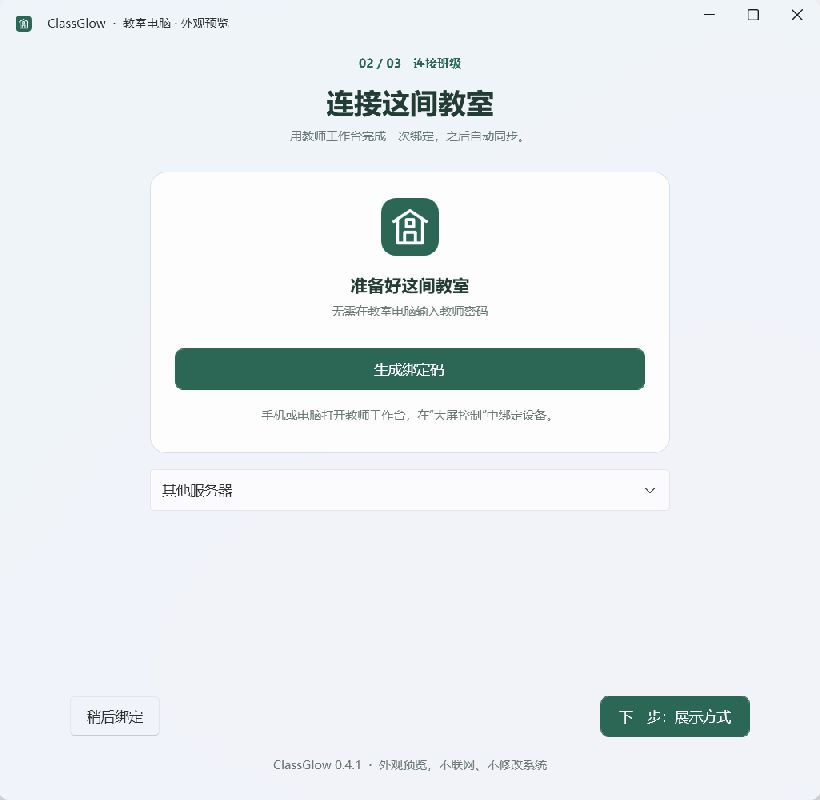
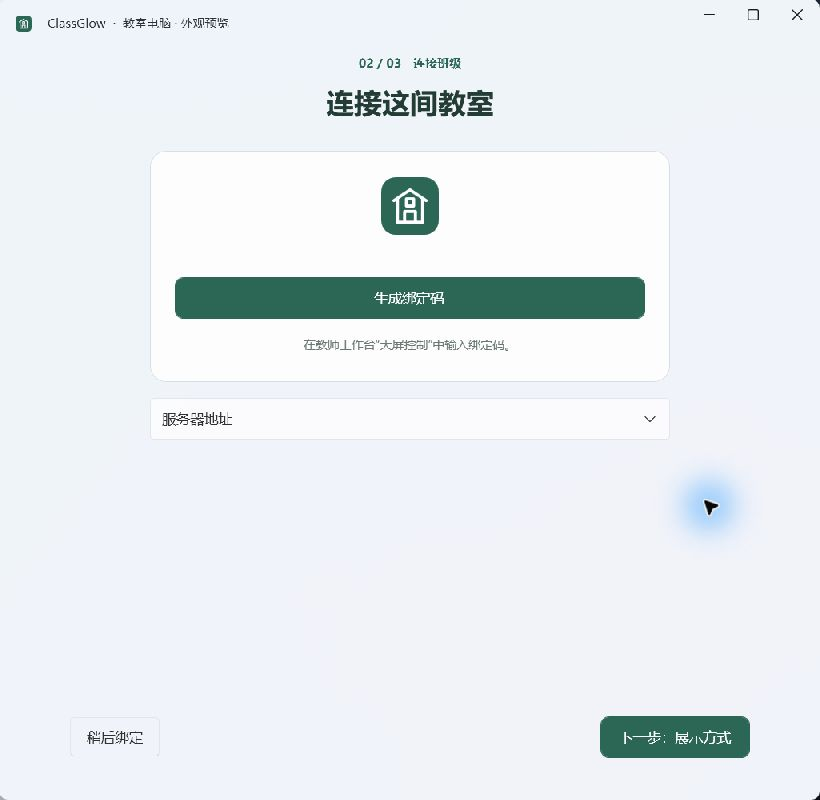
fix(desktop): remove redundant onboarding copy in 0.4.2

diff --git a/desktop/ClassroomBoard/ClientPanel.xaml b/desktop/ClassroomBoard/ClientPanel.xaml
@@ -7,7 +7,6 @@
   <StackPanel Margin="0,0,0,22">
    <TextBlock x:Name="StepLabel" Text="02 / 03　连接班级" Foreground="{DynamicResource GlowAccent}" FontSize="12" FontWeight="SemiBold" HorizontalAlignment="Center" />
    <TextBlock x:Name="PageTitle" Text="连接这间教室" Foreground="{DynamicResource GlowText}" FontSize="28" FontWeight="SemiBold" HorizontalAlignment="Center" Margin="0,14,0,8" />
-   <TextBlock x:Name="PageHint" Text="用教师工作台完成一次绑定，之后自动同步。" Style="{StaticResource GlowHint}" TextAlignment="Center" />
   </StackPanel>
   <ScrollViewer Grid.Row="1" VerticalScrollBarVisibility="Auto" HorizontalScrollBarVisibility="Disabled">
    <StackPanel>
@@ -16,16 +15,15 @@
       <StackPanel>
        <Image x:Name="BrandImage" Width="58" Height="58" Margin="0,2,0,18" />
        <Image x:Name="PairQr" Width="168" Height="168" Stretch="Uniform" Visibility="Collapsed" Margin="0,0,0,16" />
-       <TextBlock x:Name="CodeLabel" Text="准备好这间教室" Style="{StaticResource GlowHeading}" TextAlignment="Center" />
+       <TextBlock x:Name="CodeLabel" Style="{StaticResource GlowHeading}" TextAlignment="Center" Visibility="Collapsed" />
        <TextBlock x:Name="PairCode" Foreground="{DynamicResource GlowText}" FontSize="34" FontWeight="SemiBold" TextAlignment="Center" Visibility="Collapsed" Margin="0,6,0,8" TextWrapping="Wrap" />
-       <TextBlock x:Name="PairHint" Text="无需在教室电脑输入教师密码" Style="{StaticResource GlowHint}" TextAlignment="Center" />
+       <TextBlock x:Name="PairHint" Text="10 分钟内有效" Style="{StaticResource GlowHint}" TextAlignment="Center" Visibility="Collapsed" />
        <ui:Button x:Name="PairButton" Content="生成绑定码" Style="{StaticResource GlowPrimary}" HorizontalAlignment="Stretch" Margin="0,24,0,0" Click="Pair_Click" />
-       <TextBlock x:Name="ConnectionStatus" Text="手机或电脑打开教师工作台，在“大屏控制”中绑定设备。" Style="{StaticResource GlowHint}" TextAlignment="Center" Margin="0,18,0,0" />
+       <TextBlock x:Name="ConnectionStatus" Text="在教师工作台“大屏控制”中输入绑定码。" Style="{StaticResource GlowHint}" TextAlignment="Center" Margin="0,18,0,0" />
       </StackPanel>
      </Border>
-     <Expander Header="其他服务器" Margin="0,16,0,0">
+     <Expander Header="服务器地址" Margin="0,16,0,0">
       <StackPanel Margin="12,10,12,8">
-       <TextBlock Text="通常无需修改。自建服务时，由管理员提供地址。" Style="{StaticResource GlowHint}" />
        <TextBox x:Name="ServerInput" Padding="10,8" Margin="0,8,0,0" AutomationProperties.Name="服务地址" />
       </StackPanel>
      </Expander>
@@ -34,7 +32,6 @@
      <Border Style="{StaticResource GlowCard}">
       <StackPanel>
        <CheckBox x:Name="WallpaperEnabled" Content="在桌面显示班级看板" FontSize="16" Click="Wallpaper_Click" />
-       <TextBlock Text="课件在前台时先保存内容，回到桌面后再更新。退出客户端会恢复原壁纸。" Style="{StaticResource GlowHint}" Margin="28,10,0,0" />
        <StackPanel x:Name="MonitorPanel" Margin="28,20,0,0" Visibility="Collapsed">
         <TextBlock Text="显示在哪块屏幕？" Style="{StaticResource GlowLabel}" Margin="0,0,0,8" />
         <ComboBox x:Name="MonitorChoice" AutomationProperties.Name="展示的显示器" Padding="10,8" />
@@ -44,10 +41,8 @@
      <Border Style="{StaticResource GlowCard}" Margin="0,16,0,0">
       <StackPanel>
        <CheckBox x:Name="StartupEnabled" Content="登录 Windows 时自动启动" FontSize="16" />
-       <TextBlock Text="下次登录电脑时自动运行。" Style="{StaticResource GlowHint}" Margin="28,10,0,0" />
       </StackPanel>
      </Border>
-     <TextBlock Text="两项默认关闭。完成后也可以随时修改。" Style="{StaticResource GlowHint}" TextAlignment="Center" Margin="0,20,0,0" />
     </StackPanel>
     <StackPanel x:Name="HomePage" MaxWidth="520" Visibility="Collapsed">
      <Border Style="{StaticResource GlowCard}">
@@ -55,7 +50,6 @@
        <Image x:Name="HomeBrandImage" Width="58" Height="58" Margin="0,4,0,20" />
        <TextBlock x:Name="ClassName" Text="还没有连接班级" Style="{StaticResource GlowHeading}" FontSize="22" TextAlignment="Center" />
        <TextBlock x:Name="StatusText" Style="{StaticResource GlowLabel}" TextAlignment="Center" Margin="0,8,0,8" />
-       <TextBlock x:Name="StatusDetail" Style="{StaticResource GlowHint}" TextAlignment="Center" />
        <ui:Button x:Name="HomePrimary" Content="立即同步" Style="{StaticResource GlowPrimary}" HorizontalAlignment="Stretch" Margin="0,24,0,0" Click="HomePrimary_Click" />
        <ui:Button x:Name="PauseButton" Content="暂停这台电脑" HorizontalAlignment="Stretch" Padding="12,10" Margin="0,10,0,0" Click="Pause_Click" />
        <Expander Header="查看同步详情" Margin="0,18,0,0">
@@ -80,7 +74,6 @@
     <ui:Button x:Name="BackButton" Content="稍后绑定" Appearance="Transparent" Padding="16,10" Click="Back_Click" HorizontalAlignment="Left" />
     <ui:Button x:Name="NextButton" Content="下一步：展示方式" Style="{StaticResource GlowPrimary}" Click="Next_Click" HorizontalAlignment="Right" IsEnabled="False" />
    </Grid>
-   <TextBlock x:Name="VersionLabel" Style="{StaticResource GlowHint}" HorizontalAlignment="Center" />
   </StackPanel>
  </Grid>
 </UserControl>

diff --git a/desktop/ClassroomBoard/ClientPanel.xaml.cs b/desktop/ClassroomBoard/ClientPanel.xaml.cs
@@ -24,7 +24,6 @@ public partial class ClientPanel : System.Windows.Controls.UserControl
         InitializeComponent();
         BrandImage.Source = HomeBrandImage.Source = AppWindow.BrandIcon();
         ServerInput.Text = engine.State.Server;
-        VersionLabel.Text = $"ClassGlow {AppPaths.Version}" + (preview ? "  ·  外观预览，不联网、不修改系统" : "  ·  当前用户客户端");
         ShowPage(setup ? Bound ? "display" : "connect" : "home");
         timer.Tick += (_, _) => RefreshState();
         Loaded += (_, _) => { RefreshState(); timer.Start(); };
@@ -40,12 +39,8 @@ public partial class ClientPanel : System.Windows.Controls.UserControl
         WizardActions.Visibility = target == "home" ? Visibility.Collapsed : Visibility.Visible;
         StepLabel.Text = target == "home" ? "CLASSGLOW · 教室电脑"
             : setup ? target == "connect" ? "02 / 03　连接班级" : "03 / 03　展示方式" : "本机设置";
+        StepLabel.Visibility = setup ? Visibility.Visible : Visibility.Collapsed;
         PageTitle.Text = target switch { "connect" => "连接这间教室", "display" => "展示设置", _ => "班级已连接" };
-        PageHint.Text = target switch {
-            "connect" => "用教师工作台完成一次绑定，之后自动同步。",
-            "display" => "选择展示屏幕和启动方式。",
-            _ => "关闭这个窗口后，客户端会继续在托盘运行。"
-        };
         BackButton.Content = setup ? target == "display" ? "上一步" : "稍后绑定" : "返回状态";
         NextButton.Content = target == "display" ? setup ? "完成设置" : "保存设置" : setup ? "下一步：展示方式" : "返回状态";
         if (target == "display" && (!setup || !preferencesLoaded)) { LoadPreferences(); preferencesLoaded = true; }
@@ -74,7 +69,7 @@ public partial class ClientPanel : System.Windows.Controls.UserControl
     private bool PreviewOnly()
     {
         if (!preview) return false;
-        Tell("这是外观预览，操作不会联网、写入启动项或更换壁纸。"); return true;
+        Tell("预览模式"); return true;
     }
 
     private void RefreshState()
@@ -84,15 +79,14 @@ public partial class ClientPanel : System.Windows.Controls.UserControl
         string classroom = state.Snapshot?["classroom"]?["name"]?.GetValue<string>() ?? "已绑定班级";
         PairButton.Visibility = Bound ? Visibility.Collapsed : Visibility.Visible;
         PairButton.IsEnabled = !pairing; ServerInput.IsEnabled = !Bound && !pairing;
-        CodeLabel.Text = Bound ? "已连接班级" : hasCode ? "一次性绑定码" : "准备好这间教室";
+        CodeLabel.Text = Bound ? "已连接班级" : "一次性绑定码";
+        CodeLabel.Visibility = Bound || hasCode ? Visibility.Visible : Visibility.Collapsed;
         PairCode.Text = Bound ? classroom : state.PairCode;
         PairCode.FontSize = hasCode ? 34 : 22;
         PairCode.Visibility = Bound || hasCode ? Visibility.Visible : Visibility.Collapsed;
-        PairHint.Text = Bound ? "绑定成功，可以继续下一步。" : hasCode ? "10 分钟内有效 · 手机扫码后确认班级" : "无需在教室电脑输入教师密码";
+        PairHint.Visibility = hasCode ? Visibility.Visible : Visibility.Collapsed;
         PairButton.Content = pairing ? "正在生成…" : hasCode ? "重新生成绑定码" : "生成绑定码";
-        ConnectionStatus.Text = Bound ? "老师在工作台发布后，这台电脑会自动接收。"
-            : hasCode ? "等待老师确认绑定；完成后，“下一步”会自动亮起。"
-            : "手机或电脑打开教师工作台，在“大屏控制”中绑定设备。";
+        ConnectionStatus.Visibility = Bound ? Visibility.Collapsed : Visibility.Visible;
         if (hasCode && state.PairQr.Length > 0 && displayedQr != state.PairQr) {
             using var stream = new MemoryStream(Convert.FromBase64String(state.PairQr));
             var bitmap = new BitmapImage(); bitmap.BeginInit(); bitmap.CacheOption = BitmapCacheOption.OnLoad;
@@ -103,10 +97,9 @@ public partial class ClientPanel : System.Windows.Controls.UserControl
         NextButton.IsEnabled = !pairing && (page == "display" || Bound || preview || !setup);
         BackButton.IsEnabled = !pairing;
         ClassName.Text = Bound ? classroom : "还没有连接班级";
-        StatusText.Text = Bound ? engine.Status : hasCode ? "等待老师确认绑定" : "绑定后即可接收班级内容";
-        StatusDetail.Text = !state.EnableWallpaper ? "桌面展示已关闭，可以在“展示设置”中开启。"
-            : state.LocalPaused ? "本机已暂停，需在这台电脑恢复。" : "已启用桌面展示，上课时不会打断课件。";
-        TechnicalStatus.Text = $"已接收 v{state.CachedVersion} / 已展示 v{state.AppliedVersion}\n内容第 {state.Page} / {state.PageCount} 页\n{state.MaterialReason}";
+        StatusText.Text = Bound ? (state.Error.Length > 0 || state.EnableWallpaper ? engine.Status : "桌面展示已关闭")
+            : hasCode ? "等待确认绑定" : "未绑定";
+        TechnicalStatus.Text = $"ClassGlow {AppPaths.Version}\n已接收 v{state.CachedVersion} / 已展示 v{state.AppliedVersion}\n内容第 {state.Page} / {state.PageCount} 页\n{state.MaterialReason}";
         HomePrimary.Content = Bound ? "立即同步" : "继续绑定班级";
         PauseButton.Visibility = Bound ? Visibility.Visible : Visibility.Collapsed;
         PauseButton.Content = state.LocalPaused ? "恢复本机展示" : "暂停这台电脑";
@@ -116,8 +109,8 @@ public partial class ClientPanel : System.Windows.Controls.UserControl
     private async void Pair_Click(object sender, RoutedEventArgs e)
     {
         if (PreviewOnly()) return;
-        pairing = true; RefreshState();
-        try { await engine.Pair(ServerInput.Text); Tell("手机扫码，或在教师工作台“大屏控制”输入绑定码，选择对应班级。"); }
+        pairing = true; FeedbackBox.Visibility = Visibility.Collapsed; RefreshState();
+        try { await engine.Pair(ServerInput.Text); }
         catch (Exception error) when (error is HttpRequestException or TaskCanceledException or InvalidOperationException or IOException or DeviceAuthorizationException) { Tell("绑定未完成：" + error.Message); }
         finally { pairing = false; RefreshState(); }
     }
@@ -127,7 +120,7 @@ public partial class ClientPanel : System.Windows.Controls.UserControl
     private void Next_Click(object sender, RoutedEventArgs e)
     {
         if (page == "connect") { ShowPage(setup ? "display" : "home"); return; }
-        if (preview) { setup = false; ShowPage("home"); Tell("引导预览已完成，没有保存设置或修改系统。"); return; }
+        if (preview) { setup = false; ShowPage("home"); return; }
         if (!SavePreferences(out string message)) return;
         setup = false; ShowPage("home"); Tell(message);
     }
@@ -139,7 +132,7 @@ public partial class ClientPanel : System.Windows.Controls.UserControl
 
     private bool SavePreferences(out string message)
     {
-        message = "设置已保存。可以关闭窗口，客户端会继续在托盘运行。";
+        message = "已保存";
         bool enabled = WallpaperEnabled.IsChecked == true;
         if (enabled && MonitorChoice.SelectedItem is not MonitorOption) { Tell("请选择一块可用的显示器，再完成设置。"); return false; }
         var state = engine.State;
@@ -181,7 +174,7 @@ public partial class ClientPanel : System.Windows.Controls.UserControl
     {
         if (!Bound) { setup = true; preferencesLoaded = false; ShowPage("connect"); return; }
         if (PreviewOnly()) return;
-        engine.RequestSync(); Tell("已请求同步，运行状态会自动更新。");
+        engine.RequestSync(); Tell("已请求同步");
     }
     private void Settings_Click(object sender, RoutedEventArgs e) { setup = false; ShowPage("display"); }
     private void Binding_Click(object sender, RoutedEventArgs e) { setup = !Bound; ShowPage("connect"); }

diff --git a/desktop/ClassroomBoard/PrivacyNotice.cs b/desktop/ClassroomBoard/PrivacyNotice.cs
@@ -53,16 +53,14 @@ public static class PrivacyNotice
 
     public static AppWindow Create(bool requireConsent, bool preview = false)
     {
-        var window = new AppWindow(requireConsent ? "欢迎使用" : "隐私与本机数据");
+        var window = new AppWindow((requireConsent ? "欢迎使用" : "隐私与本机数据") + (preview ? " · 外观预览" : ""));
         var root = new DockPanel { Margin = new Thickness(32, 8, 32, 22), MaxWidth = 680 };
         var heading = new StackPanel { Margin = new Thickness(0, 0, 0, 22) };
         var step = AppWindow.Hint(requireConsent ? "01 / 03　隐私说明" : "CLASSGLOW · 教室电脑");
         step.HorizontalAlignment = HorizontalAlignment.Center; step.SetResourceReference(TextBlock.ForegroundProperty, "GlowAccent");
         heading.Children.Add(step);
-        heading.Children.Add(new TextBlock { Text = requireConsent ? "欢迎来到班级看板" : "隐私与本机数据", FontSize = 28,
+        heading.Children.Add(new TextBlock { Text = "隐私与本机数据", FontSize = 28,
             FontWeight = FontWeights.SemiBold, TextAlignment = TextAlignment.Center, Margin = new Thickness(0, 14, 0, 8) });
-        var hint = AppWindow.Hint("开始之前，先了解它会做什么。");
-        hint.TextAlignment = TextAlignment.Center; heading.Children.Add(hint);
         DockPanel.SetDock(heading, Dock.Top); root.Children.Add(heading);
         var footer = new StackPanel { Margin = new Thickness(0, 18, 0, 0) };
         DockPanel.SetDock(footer, Dock.Bottom); root.Children.Add(footer);
@@ -89,18 +87,15 @@ public static class PrivacyNotice
             reject.Click += (_, _) => window.Close(); buttons.Children.Add(reject);
         }
         footer.Children.Add(buttons);
-        var version = AppWindow.Hint($"ClassGlow {AppPaths.Version}" + (preview ? "  ·  外观预览，不保存同意记录" : "  ·  当前用户客户端"));
-        version.HorizontalAlignment = HorizontalAlignment.Center; version.Margin = new Thickness(0, 20, 0, 0);
-        footer.Children.Add(version);
 
         var content = new StackPanel { MaxWidth = 520 };
         if (requireConsent) {
             var summary = new StackPanel();
             summary.Children.Add(new System.Windows.Controls.Image { Source = AppWindow.BrandIcon(), Width = 58, Height = 58, Margin = new Thickness(0, 0, 0, 18) });
             foreach (var (title, detail) in new[] {
-                ("只连接你的班级", "同意并绑定后，接收教学内容，发送设备名称和同步状态；没有广告与第三方统计。"),
-                ("本机变更由你选择", "壁纸展示和自动启动默认关闭。不读取个人文档，不截图，不访问摄像头或麦克风。"),
-                ("随时退出，也能完整卸载", "退出恢复原壁纸。卸载清理本程序的文件、凭证、缓存和启动项，保留你另放的文件。")
+                ("联网信息", "同意并绑定后，接收教学内容，发送设备名称和同步状态；没有广告与第三方统计。"),
+                ("本机权限", "壁纸展示和自动启动默认关闭。不读取个人文档，不截图，不访问摄像头或麦克风。"),
+                ("卸载清理", "退出恢复原壁纸。卸载清理本程序的文件、凭证、缓存和启动项，保留你另放的文件。")
             }) {
                 summary.Children.Add(new TextBlock { Text = title, FontSize = 15, FontWeight = FontWeights.SemiBold, Margin = new Thickness(0, 6, 0, 5) });
                 var detailText = AppWindow.Hint(detail); detailText.Margin = new Thickness(0, 0, 0, 12); summary.Children.Add(detailText);

diff --git a/scripts/package_windows.py b/scripts/package_windows.py
@@ -19,8 +19,8 @@ def main():
     nsis = args.nsis or Path(os.environ["LOCALAPPDATA"]) / "tauri/NSIS/makensis.exe"
     if not nsis.is_file():
         raise SystemExit("请安装 NSIS 3，并通过 --nsis 指定 makensis.exe；脚本不会安装全局工具。")
-    payload = ROOT / "dist" / ("windows-qa" if args.qa else "windows-0.4.1")
-    output = ROOT / "dist" / ("ClassGlow-0.4.1-uninstall-QA.exe" if args.qa else "ClassGlow-0.4.1-win-x64-setup.exe")
+    payload = ROOT / "dist" / ("windows-qa" if args.qa else "windows-0.4.2")
+    output = ROOT / "dist" / ("ClassGlow-0.4.2-uninstall-QA.exe" if args.qa else "ClassGlow-0.4.2-win-x64-setup.exe")
     build = ROOT / ".qa" / ("installer-qa" if args.qa else "installer")
     build.mkdir(parents=True, exist_ok=True)
     command = [

diff --git a/backend/config.py b/backend/config.py
@@ -17,7 +17,7 @@ class Settings(BaseSettings):
     allowed_origins: list[str] = ["http://127.0.0.1:5173", "http://localhost:5173"]
     public_url: str = "http://127.0.0.1:5173"
     session_hours: int = Field(default=24, ge=1, le=168)
-    client_latest_version: str = "0.4.1"
+    client_latest_version: str = "0.4.2"
     client_download_url: str = ""
     storage_dir: Path = Path("data")
 

diff --git a/desktop/ClassroomBoard/AppPaths.cs b/desktop/ClassroomBoard/AppPaths.cs
@@ -4,7 +4,7 @@ namespace ClassroomBoard;
 
 public static class AppPaths
 {
-    public const string Version = "0.4.1";
+    public const string Version = "0.4.2";
 #if LIFECYCLE_QA
     // 验证包使用独立目录、启动项和进程锁，绝不触碰正在使用的正式客户端。
     public const string ProductId = "ClassroomBoard.QA";

diff --git a/docs/DEPLOYMENT.md b/docs/DEPLOYMENT.md
@@ -12,18 +12,18 @@
 | --- | --- |
 | 入口 | `https://teacher.dgplus.vip/`；客户端服务地址 `https://teacher.dgplus.vip/api/` |
 | 服务器与代码 | `106.53.47.8`；`/opt/classglow`；跟踪 GitHub `main` |
-| 最近应用发布记录 | 0.4.1，Windows 分步引导 / 网页文案精简；准确提交通过 `sudo classglow status` 查看 |
+| 最近应用发布记录 | 0.4.2，Windows 引导页重复文案清理；准确提交通过 `sudo classglow status` 查看 |
 | 请求链路 | 宿主机 Nginx HTTPS → `127.0.0.1:18080` → Web 容器 Caddy → 内网 API |
 | 数据 | SQLite `/app/data/kanban.db`，位于 `classroom-board_app_data` 卷 |
 | 配置 | `/opt/classglow/deploy/.env`，由 root 管理，权限 0600，不进入 Git |
 | 自动更新 | 已开启 `classglow-update.timer`，每 5 分钟检查新提交；以 `sudo classglow auto-status` 为准 |
 | 镜像构建 | 使用 Docker 官方 ECR 镜像；`KANBAN_BUILD_NETWORK=host` 仅用于构建，运行时仍为隔离网络 |
 | HTTPS | 沿用宿主机 Certbot；本次证书到期日 2027-02-01，续期由原有定时器处理 |
-| Windows 发布 | 0.4.1 当前用户安装包，位于 `.deploy/downloads`，详见文末下载与校验值 |
+| Windows 发布 | 0.4.2 当前用户安装包，位于 `.deploy/downloads`，详见文末下载与校验值 |
 
 本次发布已验证首页、健康接口、客户端版本接口及安装包下载；无效凭证访问设备卸载接口返回 401。没有为生产环境创建默认管理员或演示数据。首次管理员由服务器菜单创建，网站不展示注册或安装入口。
 
-0.4.1 沿用 SQLite 与迁移版本 `c091d27b681e`。自由画布存在布局 JSON 中，不需要新增数据库表。Nginx 和 Caddy 的布局请求上限统一为 2 MiB，其他接口在应用层仍限 128 KiB；升级现有 Nginx 部署时，应同步更新本项目 `.deploy/nginx.conf` 的 `client_max_body_size 2m`，先 `nginx -t` 再重载。只修改本项目站点配置。Windows 旧客户端继续展示基础看板，升级后自动取得自由画布；服务端更新不会自动替换教室电脑程序。
+0.4.2 沿用 SQLite 与迁移版本 `c091d27b681e`。自由画布存在布局 JSON 中，不需要新增数据库表。Nginx 和 Caddy 的布局请求上限统一为 2 MiB，其他接口在应用层仍限 128 KiB；升级现有 Nginx 部署时，应同步更新本项目 `.deploy/nginx.conf` 的 `client_max_body_size 2m`，先 `nginx -t` 再重载。只修改本项目站点配置。Windows 旧客户端继续展示基础看板，升级后自动取得自由画布；服务端更新不会自动替换教室电脑程序。
 
 停用、日常空间清理和彻底移除的顺序见 [服务器后期清理](SERVER-CLEANUP.md)。两份文档随代码存放在服务器 `/opt/classglow/docs/`，不包含安装密钥、口令或私钥。
 
@@ -266,7 +266,7 @@ dc run --rm --no-deps \
 
 2026-11-03 已在 106 服务器完成 Linux Docker 镜像构建、SQLite 迁移、现有 Nginx 接入和公网 TLS 签发；`https://teacher.dgplus.vip/`、`/api/health`、`/api/setup/status` 已从服务器和开发电脑访问通过。证书有效期至 2027-02-01，续期由现有 Certbot 定时器负责。生产管理员由使用者在服务器菜单自行创建，没有预置管理员或演示数据。公网登录后的真实学校业务仍待开户后验收；本地隔离验证范围见 [验收记录](VERIFICATION.md)。
 
[2 lines of base64/hex data omitted]
 
 | 现象 | 检查方向 |
 | --- | --- |

diff --git a/docs/USAGE.md b/docs/USAGE.md
@@ -9,7 +9,7 @@
 3. 老师打开网站，输入管理员给的账号和密码，直接进入自己的工作台。没有注册或首次激活步骤，忘记密码联系管理员重置。
 
 4. 班主任可创建、管理自己负责的班级，维护课表、提醒、寄语和任教学科；普通老师只维护自己被授权的学科内容。
-5. 在教室电脑安装 [Windows 0.4.1 客户端](https://teacher.dgplus.vip/downloads/ClassGlow-0.4.1-win-x64-setup.exe)，从开始菜单打开。第一步阅读隐私说明，第二步生成 6 位绑定码。服务地址默认已填好，通常无需修改。
+5. 在教室电脑安装 [Windows 0.4.2 客户端](https://teacher.dgplus.vip/downloads/ClassGlow-0.4.2-win-x64-setup.exe)，从开始菜单打开。第一步阅读隐私说明，第二步生成 6 位绑定码。服务地址默认已填好，通常无需修改。
 6. 班主任进入“大屏控制”输入绑定码、核对教室并确认。设备绑定码只用于绑定电脑，与高级功能激活码无关。绑定和自动同步免费。
 7. 绑定成功后点“下一步”，选择是否在桌面展示、展示在哪块屏幕及是否自动启动，再点“完成设置”。两项默认关闭，勾选时尚不生效。
 8. 需要高级功能时，向管理员领取绑定本人账号的许可码，在“我的账号 → 开通高级功能”填写。手机入口为“我的 → 账号与高级功能”。
@@ -18,7 +18,7 @@
 
 ## Windows 首次打开
 
-0.4.1 将首次配置拆成三页，服务器地址收在“其他服务器”中。新绑定尚未完成展示设置时，重开程序会继续第三步。已完成配置的用户直接看到班级与运行状态，展开“查看同步详情”才显示版本和分页信息；点“展示设置”可修改本机选项。
+首次配置分为三页，自建服务的地址可展开“服务器地址”修改。新绑定尚未完成展示设置时，重开程序会继续第三步。已完成配置的用户直接看到班级与运行状态，展开“查看同步详情”才显示版本和分页信息；点“展示设置”可修改本机选项。
 
 截图来自 Windows 11 上实际运行的客户端外观预览，示例班级不连接生产服务器，也不写入壁纸或启动项。
 

diff --git a/README.md b/README.md
@@ -80,7 +80,7 @@ dotnet run --project desktop/ClassroomBoard/ClassroomBoard.csproj
 dotnet publish desktop/ClassroomBoard/ClassroomBoard.csproj -c Release -r win-x64 --self-contained true -o dist/windows
 ```
 
-交付推荐使用 [Windows x64 0.4.1 安装包](https://teacher.dgplus.vip/downloads/ClassGlow-0.4.1-win-x64-setup.exe)，内置 .NET 运行时，仅安装到当前用户，无需管理员权限。首次运行分为“隐私说明 → 连接班级 → 展示设置”三页；完成后进入状态页。窗口采用 WPF UI 的圆角标题栏与云母背景；同意前不联网、不创建业务数据。Windows“已安装的应用”、开始菜单和托盘均可卸载。清理范围与离线处理见 [Windows 隐私与卸载](docs/WINDOWS-PRIVACY.md)。当前仍为未签名测试版，没有客户端自动升级。
+交付推荐使用 [Windows x64 0.4.2 安装包](https://teacher.dgplus.vip/downloads/ClassGlow-0.4.2-win-x64-setup.exe)，内置 .NET 运行时，仅安装到当前用户，无需管理员权限。首次运行分为“隐私说明 → 连接班级 → 展示设置”三页；完成后进入状态页。窗口采用 WPF UI 的圆角标题栏与云母背景；同意前不联网、不创建业务数据。Windows“已安装的应用”、开始菜单和托盘均可卸载。清理范围与离线处理见 [Windows 隐私与卸载](docs/WINDOWS-PRIVACY.md)。当前仍为未签名测试版，没有客户端自动升级。
 
 构建安装包需要 .NET 10 SDK、Python 和 NSIS 3；脚本不会安装全局工具：
 
@@ -88,7 +88,7 @@ dotnet publish desktop/ClassroomBoard/ClassroomBoard.csproj -c Release -r win-x6
 uv run python scripts/package_windows.py --nsis 'C:\路径\NSIS\makensis.exe'
 ```
 
-输出 `dist/ClassGlow-0.4.1-win-x64-setup.exe`；`--qa` 构建使用独立目录及注册表项的卸载验证包。旧版便携 ZIP 仅供开发运行，不作为正式卸载入口。
+输出 `dist/ClassGlow-0.4.2-win-x64-setup.exe`；`--qa` 构建使用独立目录及注册表项的卸载验证包。旧版便携 ZIP 仅供开发运行，不作为正式卸载入口。
 
 ## 已实现的关键行为
 

diff --git a/docs/WINDOWS-PRIVACY.md b/docs/WINDOWS-PRIVACY.md
@@ -1,6 +1,6 @@
 # Windows 隐私与卸载
 
-适用版本：0.4.1，隐私说明修订号 `2026-11-03.1`。本版调整窗口和首次配置引导，仍使用原有班级快照、缓存和卸载范围，没有新增遥测或外部图片下载。WPF UI 及其许可文件包含在程序安装清单中，随本程序卸载。本文是产品行为说明，不替代学校对服务器数据的管理制度。
+适用版本：0.4.2，隐私说明修订号 `2026-11-03.1`。本版删除界面重复说明，仍使用原有班级快照、缓存和卸载范围，没有新增遥测或外部图片下载。WPF UI 及其许可文件包含在程序安装清单中，随本程序卸载。本文是产品行为说明，不替代学校对服务器数据的管理制度。
 
 ## 首次运行与数据
 
@@ -33,7 +33,7 @@
 
 ## 从旧便携版升级
 
-先退出旧版，再安装 0.4.1。新版沿用当前用户的 `ClassroomBoard` 数据目录；尚未同意当前隐私说明的用户需阅读并同意。卸载新版会清理共享的本产品业务数据和启动项。
+先退出旧版，再安装 0.4.2。新版沿用当前用户的 `ClassroomBoard` 数据目录；尚未同意当前隐私说明的用户需阅读并同意。卸载新版会清理共享的本产品业务数据和启动项。
 
 旧 ZIP 和自行解压到其他位置的程序副本不会被搜索或擅自删除；核对后由用户删除旧副本。不要把个人文档和其他程序一起删除。安装器不能替另一个 Windows 用户清理其数据；每个使用过的 Windows 账号应分别卸载。
 

diff --git a/docs/VERIFICATION.md b/docs/VERIFICATION.md
@@ -1,5 +1,9 @@
 # 班级看板开发验证记录
 
+2026 年 11 月 3 日 Windows 0.4.2：删除展示页的重复说明、各页副标题、底部注脚和重复成功提示；版本信息移入“查看同步详情”。保留绑定操作指引、有效期、隐私告知和实际错误反馈。
+
+Release 发布与 NSIS 打包通过。在 Windows 11 实际打开三页外观预览，检查展示页和完成后的状态页，更新使用说明中的三张截图；没有重新进行真实安装、卸载或远程控制验收。0.4.2 安装包上传 106 服务器后 SHA-256 核对一致，临时上传目录已移除；下载位置与校验值见 [部署文档](DEPLOYMENT.md)。
+
 2026 年 11 月 3 日 Windows 0.4.1 与网页文案精简：Windows 首次打开改为“隐私说明 → 连接班级 → 展示设置”三步，完成后进入状态页。展示和自动启动在保存时生效；返回上一页保留当前选择；新配对尚未完成最后一步时，重开继续配置，旧版已绑定用户直接进入状态页。
 
 窗口采用 [WPF UI 4.3.0](https://github.com/lepoco/wpfui) 的 FluentWindow、TitleBar 与云母材质，Windows 11 取消原生深色描边并保留圆角、系统阴影和窗口操作。主题、隐私页、状态页及控制预览使用同一外壳，第三方许可随程序发布并列入卸载清单。Windows 10 的底色回退和高对比模式尚未现场验证。
